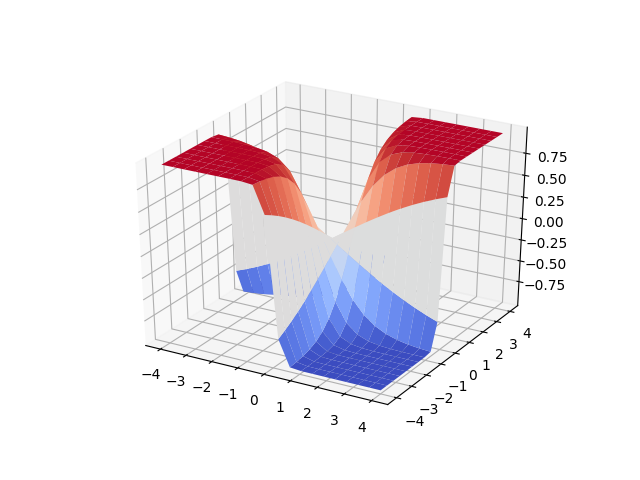
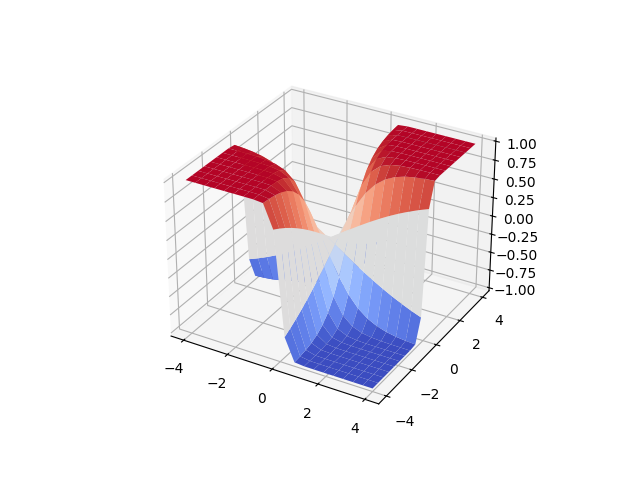
-

diff --git a/func_analysis/func_40_autograd/func_40_autograd.html b/func_analysis/func_40_autograd/func_40_autograd.html
@@ -115,7 +115,7 @@ class="sourceCode python"><code class="sourceCode python"><span id="cb1-1"><a hr
 <span id="cb1-13"><a href="#cb1-13" aria-hidden="true" tabindex="-1"></a>g <span class="op">=</span> grad(objective, <span class="dv">0</span>)</span>
 <span id="cb1-14"><a href="#cb1-14" aria-hidden="true" tabindex="-1"></a>res <span class="op">=</span> g(np.array([x, y, z]))</span>
 <span id="cb1-15"><a href="#cb1-15" aria-hidden="true" tabindex="-1"></a><span class="bu">print</span> (res)</span></code></pre></div>
-<pre><code>[[2. 0. 0.]
+<pre class="text"><code>[[2. 0. 0.]
  [0. 2. 0.]
  [0. 0. 2.]]
 [2. 2. 2.]</code></pre>
@@ -144,7 +144,7 @@ class="sourceCode python"><code class="sourceCode python"><span id="cb3-1"><a hr
 <span id="cb3-8"><a href="#cb3-8" aria-hidden="true" tabindex="-1"></a>xx <span class="op">=</span> np.array([<span class="fl">1.0</span>,<span class="fl">1.0</span>])</span>
 <span id="cb3-9"><a href="#cb3-9" aria-hidden="true" tabindex="-1"></a>h <span class="op">=</span> autograd.hessian(f)</span>
 <span id="cb3-10"><a href="#cb3-10" aria-hidden="true" tabindex="-1"></a><span class="bu">print</span> (h(xx))</span></code></pre></div>
-<pre><code>[[8. 4.]
+<pre class="text"><code>[[8. 4.]
  [4. 8.]]</code></pre>
 <p>Şimdi bazı genel optimizasyon konularını işleyelim.</p>
 <p>Sınırlanmamış optimizasyonda (unconstrained optimization) <span
@@ -278,25 +278,24 @@ class="sourceCode python"><code class="sourceCode python"><span id="cb6-1"><a hr
 <span id="cb6-12"><a href="#cb6-12" aria-hidden="true" tabindex="-1"></a>        x <span class="op">=</span> x <span class="op">-</span> alpha <span class="op">*</span> grad(x)</span>
 <span id="cb6-13"><a href="#cb6-13" aria-hidden="true" tabindex="-1"></a>        xs[step <span class="op">+</span> <span class="dv">1</span>] <span class="op">=</span> x</span>
 <span id="cb6-14"><a href="#cb6-14" aria-hidden="true" tabindex="-1"></a>        </span>
-<span id="cb6-15"><a href="#cb6-15" aria-hidden="true" tabindex="-1"></a><span class="op">!</span>[](func_40_autograd_02.png)</span>
-<span id="cb6-16"><a href="#cb6-16" aria-hidden="true" tabindex="-1"></a>    <span class="cf">return</span> xs</span>
-<span id="cb6-17"><a href="#cb6-17" aria-hidden="true" tabindex="-1"></a></span>
-<span id="cb6-18"><a href="#cb6-18" aria-hidden="true" tabindex="-1"></a>alpha <span class="op">=</span> <span class="fl">0.1</span></span>
-<span id="cb6-19"><a href="#cb6-19" aria-hidden="true" tabindex="-1"></a>x0 <span class="op">=</span> <span class="fl">1.</span></span>
-<span id="cb6-20"><a href="#cb6-20" aria-hidden="true" tabindex="-1"></a></span>
-<span id="cb6-21"><a href="#cb6-21" aria-hidden="true" tabindex="-1"></a>x_opt <span class="op">=</span> grad_desc(x0, fun, alpha <span class="op">=</span> alpha, max_iter <span class="op">=</span> <span class="dv">10</span>)</span>
-<span id="cb6-22"><a href="#cb6-22" aria-hidden="true" tabindex="-1"></a>y_opt <span class="op">=</span> fun(x_opt)</span>
-<span id="cb6-23"><a href="#cb6-23" aria-hidden="true" tabindex="-1"></a></span>
-<span id="cb6-24"><a href="#cb6-24" aria-hidden="true" tabindex="-1"></a>x_true <span class="op">=</span> np.linspace(<span class="op">-</span><span class="fl">1.2</span>, <span class="fl">1.2</span>, <span class="dv">100</span>)</span>
-<span id="cb6-25"><a href="#cb6-25" aria-hidden="true" tabindex="-1"></a>y_true <span class="op">=</span> fun(x_true)</span>
-<span id="cb6-26"><a href="#cb6-26" aria-hidden="true" tabindex="-1"></a></span>
-<span id="cb6-27"><a href="#cb6-27" aria-hidden="true" tabindex="-1"></a>plt.plot(x_true, y_true)</span>
-<span id="cb6-28"><a href="#cb6-28" aria-hidden="true" tabindex="-1"></a>plt.plot(x_opt, y_opt, <span class="st">&#39;o-&#39;</span>, c<span class="op">=</span><span class="st">&#39;red&#39;</span>)</span>
-<span id="cb6-29"><a href="#cb6-29" aria-hidden="true" tabindex="-1"></a></span>
-<span id="cb6-30"><a href="#cb6-30" aria-hidden="true" tabindex="-1"></a><span class="cf">for</span> i, (x, y) <span class="kw">in</span> <span class="bu">enumerate</span>(<span class="bu">zip</span>(x_opt, y_opt), <span class="dv">1</span>):</span>
-<span id="cb6-31"><a href="#cb6-31" aria-hidden="true" tabindex="-1"></a>      plt.text(x <span class="op">-</span> <span class="fl">0.1</span>, y <span class="op">+</span> <span class="fl">0.1</span>, i, fontsize<span class="op">=</span><span class="dv">15</span>)</span>
-<span id="cb6-32"><a href="#cb6-32" aria-hidden="true" tabindex="-1"></a></span>
-<span id="cb6-33"><a href="#cb6-33" aria-hidden="true" tabindex="-1"></a>plt.show()</span></code></pre></div>
+<span id="cb6-15"><a href="#cb6-15" aria-hidden="true" tabindex="-1"></a>    <span class="cf">return</span> xs</span>
+<span id="cb6-16"><a href="#cb6-16" aria-hidden="true" tabindex="-1"></a></span>
+<span id="cb6-17"><a href="#cb6-17" aria-hidden="true" tabindex="-1"></a>alpha <span class="op">=</span> <span class="fl">0.1</span></span>
+<span id="cb6-18"><a href="#cb6-18" aria-hidden="true" tabindex="-1"></a>x0 <span class="op">=</span> <span class="fl">1.</span></span>
+<span id="cb6-19"><a href="#cb6-19" aria-hidden="true" tabindex="-1"></a></span>
+<span id="cb6-20"><a href="#cb6-20" aria-hidden="true" tabindex="-1"></a>x_opt <span class="op">=</span> grad_desc(x0, fun, alpha <span class="op">=</span> alpha, max_iter <span class="op">=</span> <span class="dv">10</span>)</span>
+<span id="cb6-21"><a href="#cb6-21" aria-hidden="true" tabindex="-1"></a>y_opt <span class="op">=</span> fun(x_opt)</span>
+<span id="cb6-22"><a href="#cb6-22" aria-hidden="true" tabindex="-1"></a></span>
+<span id="cb6-23"><a href="#cb6-23" aria-hidden="true" tabindex="-1"></a>x_true <span class="op">=</span> np.linspace(<span class="op">-</span><span class="fl">1.2</span>, <span class="fl">1.2</span>, <span class="dv">100</span>)</span>
+<span id="cb6-24"><a href="#cb6-24" aria-hidden="true" tabindex="-1"></a>y_true <span class="op">=</span> fun(x_true)</span>
+<span id="cb6-25"><a href="#cb6-25" aria-hidden="true" tabindex="-1"></a></span>
+<span id="cb6-26"><a href="#cb6-26" aria-hidden="true" tabindex="-1"></a>plt.plot(x_true, y_true)</span>
+<span id="cb6-27"><a href="#cb6-27" aria-hidden="true" tabindex="-1"></a>plt.plot(x_opt, y_opt, <span class="st">&#39;o-&#39;</span>, c<span class="op">=</span><span class="st">&#39;red&#39;</span>)</span>
+<span id="cb6-28"><a href="#cb6-28" aria-hidden="true" tabindex="-1"></a></span>
+<span id="cb6-29"><a href="#cb6-29" aria-hidden="true" tabindex="-1"></a><span class="cf">for</span> i, (x, y) <span class="kw">in</span> <span class="bu">enumerate</span>(<span class="bu">zip</span>(x_opt, y_opt), <span class="dv">1</span>):</span>
+<span id="cb6-30"><a href="#cb6-30" aria-hidden="true" tabindex="-1"></a>      plt.text(x <span class="op">-</span> <span class="fl">0.1</span>, y <span class="op">+</span> <span class="fl">0.1</span>, i, fontsize<span class="op">=</span><span class="dv">15</span>)</span>
+<span id="cb6-31"><a href="#cb6-31" aria-hidden="true" tabindex="-1"></a></span>
+<span id="cb6-32"><a href="#cb6-32" aria-hidden="true" tabindex="-1"></a>plt.savefig(<span class="st">&quot;func_40_autograd_02.png&quot;</span>)</span></code></pre></div>
 <p><img src="func_40_autograd_02.png" /></p>
 <p>Türevi <code>autograd</code> ile aldık, bu örnekte sembolik türev
 kolaydı, elle <span class="math inline">\(f&#39;(x)=2x\)</span>
@@ -317,22 +316,22 @@ class="sourceCode python"><code class="sourceCode python"><span id="cb7-1"><a hr
 <span id="cb7-4"><a href="#cb7-4" aria-hidden="true" tabindex="-1"></a>    x, y, z <span class="op">=</span> X</span>
 <span id="cb7-5"><a href="#cb7-5" aria-hidden="true" tabindex="-1"></a>    <span class="cf">return</span> x<span class="op">**</span><span class="dv">2</span> <span class="op">+</span> y<span class="op">**</span><span class="dv">2</span> <span class="op">+</span> z<span class="op">**</span><span class="dv">2</span></span>
 <span id="cb7-6"><a href="#cb7-6" aria-hidden="true" tabindex="-1"></a></span>
-<span id="cb7-7"><a href="#cb7-7" aria-hidden="true" tabindex="-1"></a><span class="kw">def</span> cons(X): <span class="co"># kisitlama</span></span>
+<span id="cb7-7"><a href="#cb7-7" aria-hidden="true" tabindex="-1"></a><span class="kw">def</span> cons2(X): <span class="co"># kisitlama</span></span>
 <span id="cb7-8"><a href="#cb7-8" aria-hidden="true" tabindex="-1"></a>    x, y, z <span class="op">=</span> X</span>
 <span id="cb7-9"><a href="#cb7-9" aria-hidden="true" tabindex="-1"></a>    <span class="cf">return</span> <span class="dv">2</span> <span class="op">*</span> x <span class="op">-</span> y <span class="op">+</span> z <span class="op">-</span> <span class="dv">3</span></span>
 <span id="cb7-10"><a href="#cb7-10" aria-hidden="true" tabindex="-1"></a></span>
 <span id="cb7-11"><a href="#cb7-11" aria-hidden="true" tabindex="-1"></a>x0 <span class="op">=</span> [<span class="dv">1</span>, <span class="dv">1</span>, <span class="dv">1</span>]</span>
-<span id="cb7-12"><a href="#cb7-12" aria-hidden="true" tabindex="-1"></a>sol <span class="op">=</span> minimize(objective, x0, constraints<span class="op">=</span>{<span class="st">&#39;type&#39;</span>: <span class="st">&#39;eq&#39;</span>, <span class="st">&#39;fun&#39;</span>: cons})</span>
+<span id="cb7-12"><a href="#cb7-12" aria-hidden="true" tabindex="-1"></a>sol <span class="op">=</span> minimize(objective, x0, constraints<span class="op">=</span>{<span class="st">&#39;type&#39;</span>: <span class="st">&#39;eq&#39;</span>, <span class="st">&#39;fun&#39;</span>: cons2})</span>
 <span id="cb7-13"><a href="#cb7-13" aria-hidden="true" tabindex="-1"></a><span class="bu">print</span> (sol)</span></code></pre></div>
-<pre><code>     fun: 1.5000000035790053
-     jac: array([ 1.99997392, -1.00010441,  0.99994774])
- message: &#39;Optimization terminated successfully.&#39;
-    nfev: 22
-     nit: 4
-    njev: 4
-  status: 0
+<pre class="text"><code> message: Optimization terminated successfully
  success: True
-       x: array([ 0.99998696, -0.50005221,  0.49997386])</code></pre>
+  status: 0
+     fun: 1.5000000035790053
+       x: [ 1.000e+00 -5.001e-01  5.000e-01]
+     nit: 4
+     jac: [ 2.000e+00 -1.000e+00  9.999e-01]
+    nfev: 18
+    njev: 4</code></pre>
 <p>Fonksiyon <code>minimize</code> için kısıtlamalar <code>eq</code> ile
 sıfıra eşit olma üzerinden tanımlanır. Eğer <code>ineq</code>
 kullanılırsa sıfırdan büyük olma tanımlanıyor o zaman mesela <span
@@ -344,16 +343,16 @@ class="sourceCode python"><code class="sourceCode python"><span id="cb9-1"><a hr
 <span id="cb9-2"><a href="#cb9-2" aria-hidden="true" tabindex="-1"></a>      {<span class="st">&#39;type&#39;</span>: <span class="st">&#39;ineq&#39;</span>,<span class="st">&#39;fun&#39;</span>: <span class="kw">lambda</span> xvec: xvec[<span class="dv">1</span>]}) <span class="co"># y&gt;0</span></span>
 <span id="cb9-3"><a href="#cb9-3" aria-hidden="true" tabindex="-1"></a>sol <span class="op">=</span> minimize(objective, x0, method <span class="op">=</span> <span class="st">&#39;SLSQP&#39;</span>, constraints<span class="op">=</span>cons)</span>
 <span id="cb9-4"><a href="#cb9-4" aria-hidden="true" tabindex="-1"></a><span class="bu">print</span> (sol)</span></code></pre></div>
-<p>Not: <code>SLSQP</code> metotu gradyana ihtiyaç duymuyor.</p>
-<pre><code>     fun: 1.1090612774580318e-16
-     jac: array([7.79817877e-12, 1.49011612e-08, 7.79860898e-12])
- message: &#39;Optimization terminated successfully.&#39;
-    nfev: 20
-     nit: 4
-    njev: 4
-  status: 0
+<pre class="text"><code> message: Optimization terminated successfully
  success: True
-       x: array([-7.44668151e-09,  2.73897702e-24, -7.44668129e-09])</code></pre>
+  status: 0
+     fun: 1.1090612774580318e-16
+       x: [-7.447e-09  2.739e-24 -7.447e-09]
+     nit: 4
+     jac: [ 7.798e-12  1.490e-08  7.799e-12]
+    nfev: 16
+    njev: 4</code></pre>
+<p>Not: <code>SLSQP</code> metotu gradyana ihtiyaç duymuyor.</p>
 <p>Bazen her şeyi kendimiz yaparak tüm adımların ne yaptığından emin
 olmak isteyebiliriz. Mesela kısıtlama şartlarını kendimiz bir Lagrange
 çarpanı <span class="math inline">\(f(x) f(x) - \lambda g(x)\)</span>
@@ -367,7 +366,7 @@ class="sourceCode python"><code class="sourceCode python"><span id="cb11-1"><a h
 <span id="cb11-3"><a href="#cb11-3" aria-hidden="true" tabindex="-1"></a></span>
 <span id="cb11-4"><a href="#cb11-4" aria-hidden="true" tabindex="-1"></a><span class="kw">def</span> F(L):</span>
 <span id="cb11-5"><a href="#cb11-5" aria-hidden="true" tabindex="-1"></a>    x, y, z, _lambda <span class="op">=</span> L</span>
-<span id="cb11-6"><a href="#cb11-6" aria-hidden="true" tabindex="-1"></a>    <span class="cf">return</span> objective([x, y, z]) <span class="op">-</span> _lambda <span class="op">*</span> eq([x, y, z])</span>
+<span id="cb11-6"><a href="#cb11-6" aria-hidden="true" tabindex="-1"></a>    <span class="cf">return</span> objective([x, y, z]) <span class="op">-</span> _lambda <span class="op">*</span> cons2([x, y, z])</span>
 <span id="cb11-7"><a href="#cb11-7" aria-hidden="true" tabindex="-1"></a></span>
 <span id="cb11-8"><a href="#cb11-8" aria-hidden="true" tabindex="-1"></a>dfdL <span class="op">=</span> grad(F, <span class="dv">0</span>)</span>
 <span id="cb11-9"><a href="#cb11-9" aria-hidden="true" tabindex="-1"></a></span>
@@ -375,12 +374,12 @@ class="sourceCode python"><code class="sourceCode python"><span id="cb11-1"><a h
 <span id="cb11-11"><a href="#cb11-11" aria-hidden="true" tabindex="-1"></a><span class="kw">def</span> obj(L):</span>
 <span id="cb11-12"><a href="#cb11-12" aria-hidden="true" tabindex="-1"></a>    x, y, z, _lambda <span class="op">=</span> L</span>
 <span id="cb11-13"><a href="#cb11-13" aria-hidden="true" tabindex="-1"></a>    dFdx, dFdy, dFdz, dFdlam <span class="op">=</span> dfdL(L)</span>
-<span id="cb11-14"><a href="#cb11-14" aria-hidden="true" tabindex="-1"></a>    <span class="cf">return</span> [dFdx, dFdy, dFdz, eq([x, y, z])]</span>
+<span id="cb11-14"><a href="#cb11-14" aria-hidden="true" tabindex="-1"></a>    <span class="cf">return</span> [dFdx, dFdy, dFdz, cons2([x, y, z])]</span>
 <span id="cb11-15"><a href="#cb11-15" aria-hidden="true" tabindex="-1"></a></span>
 <span id="cb11-16"><a href="#cb11-16" aria-hidden="true" tabindex="-1"></a><span class="im">from</span> scipy.optimize <span class="im">import</span> fsolve</span>
 <span id="cb11-17"><a href="#cb11-17" aria-hidden="true" tabindex="-1"></a>x, y, z, _lam <span class="op">=</span> fsolve(obj, [<span class="fl">0.0</span>, <span class="fl">0.0</span>, <span class="fl">0.0</span>, <span class="fl">1.0</span>])</span>
 <span id="cb11-18"><a href="#cb11-18" aria-hidden="true" tabindex="-1"></a><span class="bu">print</span> (x,y,z)</span></code></pre></div>
-<pre><code>1.0 -0.5 0.5</code></pre>
+<pre class="text"><code>1.0 -0.5 0.5</code></pre>
 <p>Aynı sonuç bulundu. Şimdi merak ediyoruz, bu sonuç gerçekten minimum
 mu? Üstteki noktada Hessian’ın pozitif kesin olup olmadığını kontrol
 edebiliriz. Hessian’ı da <code>autograd</code> hesaplar! Once
@@ -390,14 +389,14 @@ class="sourceCode python"><code class="sourceCode python"><span id="cb13-1"><a h
 <span id="cb13-2"><a href="#cb13-2" aria-hidden="true" tabindex="-1"></a>h <span class="op">=</span> hessian(objective, <span class="dv">0</span>)</span>
 <span id="cb13-3"><a href="#cb13-3" aria-hidden="true" tabindex="-1"></a>res <span class="op">=</span> h(np.array([x,y,z]))</span>
 <span id="cb13-4"><a href="#cb13-4" aria-hidden="true" tabindex="-1"></a><span class="bu">print</span> (res)</span></code></pre></div>
-<pre><code>[[2. 0. 0.]
+<pre class="text"><code>[[2. 0. 0.]
  [0. 2. 0.]
  [0. 0. 2.]]</code></pre>
 <p>Bu matris pozitif kesin, ama çıplak gözle bariz değilse, tüm
 özdeğerleri pozitif olup olmadığına bakabiliriz,</p>
 <div class="sourceCode" id="cb15"><pre
 class="sourceCode python"><code class="sourceCode python"><span id="cb15-1"><a href="#cb15-1" aria-hidden="true" tabindex="-1"></a><span class="bu">print</span> (np.linalg.eig(h(np.array([x, y, z])))[<span class="dv">0</span>])</span></code></pre></div>
-<pre><code>[2. 2. 2.]</code></pre>
+<pre class="text"><code>[2. 2. 2.]</code></pre>
 <p>Birden Fazla Gradyan Değişkeni</p>
 <p>Diyelim ki elimizde</p>
 <p><span class="math display">\[
@@ -419,10 +418,9 @@ class="sourceCode python"><code class="sourceCode python"><span id="cb17-1"><a h
 <span id="cb17-10"><a href="#cb17-10" aria-hidden="true" tabindex="-1"></a>y <span class="op">=</span> np.linspace(<span class="op">-</span><span class="dv">4</span>,<span class="dv">4</span>,<span class="dv">20</span>)</span>
 <span id="cb17-11"><a href="#cb17-11" aria-hidden="true" tabindex="-1"></a>xx,yy <span class="op">=</span> np.meshgrid(x,y)</span>
 <span id="cb17-12"><a href="#cb17-12" aria-hidden="true" tabindex="-1"></a>zz <span class="op">=</span> g(xx,yy)</span>
-<span id="cb17-13"><a href="#cb17-13" aria-hidden="true" tabindex="-1"></a>fig <span class="op">=</span> plt.figure()</span>
-<span id="cb17-14"><a href="#cb17-14" aria-hidden="true" tabindex="-1"></a>ax <span class="op">=</span> fig.gca(projection<span class="op">=</span><span class="st">&#39;3d&#39;</span>)</span>
-<span id="cb17-15"><a href="#cb17-15" aria-hidden="true" tabindex="-1"></a>surf <span class="op">=</span> ax.plot_surface(xx, yy, zz, cmap<span class="op">=</span>cm.coolwarm)</span>
-<span id="cb17-16"><a href="#cb17-16" aria-hidden="true" tabindex="-1"></a>plt.savefig(<span class="st">&#39;func_40_autograd_03.png&#39;</span>)</span></code></pre></div>
+<span id="cb17-13"><a href="#cb17-13" aria-hidden="true" tabindex="-1"></a>fig, ax <span class="op">=</span> plt.subplots(<span class="dv">1</span>, <span class="dv">1</span>, subplot_kw<span class="op">=</span>{<span class="st">&#39;projection&#39;</span>: <span class="st">&#39;3d&#39;</span>})</span>
+<span id="cb17-14"><a href="#cb17-14" aria-hidden="true" tabindex="-1"></a>surf <span class="op">=</span> ax.plot_surface(xx, yy, zz, cmap<span class="op">=</span>cm.coolwarm)</span>
+<span id="cb17-15"><a href="#cb17-15" aria-hidden="true" tabindex="-1"></a>plt.savefig(<span class="st">&#39;func_40_autograd_03.png&#39;</span>)</span></code></pre></div>
 <p><img src="func_40_autograd_03.png" /></p>
 <p><span class="math inline">\(g\)</span>’nin her iki kısmi türevini ve
 gradyanını,</p>
@@ -444,7 +442,7 @@ class="math inline">\(w_2\)</span> değişkenlerine tekabül ediyorlar
 <div class="sourceCode" id="cb19"><pre
 class="sourceCode python"><code class="sourceCode python"><span id="cb19-1"><a href="#cb19-1" aria-hidden="true" tabindex="-1"></a>gradg <span class="op">=</span> [dgdw1(<span class="fl">1.0</span>,<span class="fl">2.0</span>), dgdw2(<span class="fl">1.0</span>,<span class="fl">2.0</span>)]</span>
 <span id="cb19-2"><a href="#cb19-2" aria-hidden="true" tabindex="-1"></a><span class="bu">print</span> (gradg)</span></code></pre></div>
-<pre><code>[0.14130164970632894, 0.07065082485316447]</code></pre>
+<pre class="text"><code>[np.float64(0.14130164970632894), np.float64(0.07065082485316447)]</code></pre>
 <p>Tabii çok boyutlu ortamda yazının başındaki teknikleri kullanmak daha
 iyi, üstteki bir seçenek.</p>
 <p>Kaynaklar</p>

diff --git a/func_analysis/func_40_autograd/genel_optimizasyon_paketler_autograd.html b/func_analysis/func_40_autograd/genel_optimizasyon_paketler_autograd.html
@@ -115,7 +115,7 @@ class="sourceCode python"><code class="sourceCode python"><span id="cb1-1"><a hr
 <span id="cb1-13"><a href="#cb1-13" aria-hidden="true" tabindex="-1"></a>g <span class="op">=</span> grad(objective, <span class="dv">0</span>)</span>
 <span id="cb1-14"><a href="#cb1-14" aria-hidden="true" tabindex="-1"></a>res <span class="op">=</span> g(np.array([x, y, z]))</span>
 <span id="cb1-15"><a href="#cb1-15" aria-hidden="true" tabindex="-1"></a><span class="bu">print</span> (res)</span></code></pre></div>
-<pre><code>[[2. 0. 0.]
+<pre class="text"><code>[[2. 0. 0.]
  [0. 2. 0.]
  [0. 0. 2.]]
 [2. 2. 2.]</code></pre>
@@ -144,7 +144,7 @@ class="sourceCode python"><code class="sourceCode python"><span id="cb3-1"><a hr
 <span id="cb3-8"><a href="#cb3-8" aria-hidden="true" tabindex="-1"></a>xx <span class="op">=</span> np.array([<span class="fl">1.0</span>,<span class="fl">1.0</span>])</span>
 <span id="cb3-9"><a href="#cb3-9" aria-hidden="true" tabindex="-1"></a>h <span class="op">=</span> autograd.hessian(f)</span>
 <span id="cb3-10"><a href="#cb3-10" aria-hidden="true" tabindex="-1"></a><span class="bu">print</span> (h(xx))</span></code></pre></div>
-<pre><code>[[8. 4.]
+<pre class="text"><code>[[8. 4.]
  [4. 8.]]</code></pre>
 <p>Şimdi bazı genel optimizasyon konularını işleyelim.</p>
 <p>Sınırlanmamış optimizasyonda (unconstrained optimization) <span
@@ -278,25 +278,24 @@ class="sourceCode python"><code class="sourceCode python"><span id="cb6-1"><a hr
 <span id="cb6-12"><a href="#cb6-12" aria-hidden="true" tabindex="-1"></a>        x <span class="op">=</span> x <span class="op">-</span> alpha <span class="op">*</span> grad(x)</span>
 <span id="cb6-13"><a href="#cb6-13" aria-hidden="true" tabindex="-1"></a>        xs[step <span class="op">+</span> <span class="dv">1</span>] <span class="op">=</span> x</span>
 <span id="cb6-14"><a href="#cb6-14" aria-hidden="true" tabindex="-1"></a>        </span>
-<span id="cb6-15"><a href="#cb6-15" aria-hidden="true" tabindex="-1"></a><span class="op">!</span>[](func_40_autograd_02.png)</span>
-<span id="cb6-16"><a href="#cb6-16" aria-hidden="true" tabindex="-1"></a>    <span class="cf">return</span> xs</span>
-<span id="cb6-17"><a href="#cb6-17" aria-hidden="true" tabindex="-1"></a></span>
-<span id="cb6-18"><a href="#cb6-18" aria-hidden="true" tabindex="-1"></a>alpha <span class="op">=</span> <span class="fl">0.1</span></span>
-<span id="cb6-19"><a href="#cb6-19" aria-hidden="true" tabindex="-1"></a>x0 <span class="op">=</span> <span class="fl">1.</span></span>
-<span id="cb6-20"><a href="#cb6-20" aria-hidden="true" tabindex="-1"></a></span>
-<span id="cb6-21"><a href="#cb6-21" aria-hidden="true" tabindex="-1"></a>x_opt <span class="op">=</span> grad_desc(x0, fun, alpha <span class="op">=</span> alpha, max_iter <span class="op">=</span> <span class="dv">10</span>)</span>
-<span id="cb6-22"><a href="#cb6-22" aria-hidden="true" tabindex="-1"></a>y_opt <span class="op">=</span> fun(x_opt)</span>
-<span id="cb6-23"><a href="#cb6-23" aria-hidden="true" tabindex="-1"></a></span>
-<span id="cb6-24"><a href="#cb6-24" aria-hidden="true" tabindex="-1"></a>x_true <span class="op">=</span> np.linspace(<span class="op">-</span><span class="fl">1.2</span>, <span class="fl">1.2</span>, <span class="dv">100</span>)</span>
-<span id="cb6-25"><a href="#cb6-25" aria-hidden="true" tabindex="-1"></a>y_true <span class="op">=</span> fun(x_true)</span>
-<span id="cb6-26"><a href="#cb6-26" aria-hidden="true" tabindex="-1"></a></span>
-<span id="cb6-27"><a href="#cb6-27" aria-hidden="true" tabindex="-1"></a>plt.plot(x_true, y_true)</span>
-<span id="cb6-28"><a href="#cb6-28" aria-hidden="true" tabindex="-1"></a>plt.plot(x_opt, y_opt, <span class="st">&#39;o-&#39;</span>, c<span class="op">=</span><span class="st">&#39;red&#39;</span>)</span>
-<span id="cb6-29"><a href="#cb6-29" aria-hidden="true" tabindex="-1"></a></span>
-<span id="cb6-30"><a href="#cb6-30" aria-hidden="true" tabindex="-1"></a><span class="cf">for</span> i, (x, y) <span class="kw">in</span> <span class="bu">enumerate</span>(<span class="bu">zip</span>(x_opt, y_opt), <span class="dv">1</span>):</span>
-<span id="cb6-31"><a href="#cb6-31" aria-hidden="true" tabindex="-1"></a>      plt.text(x <span class="op">-</span> <span class="fl">0.1</span>, y <span class="op">+</span> <span class="fl">0.1</span>, i, fontsize<span class="op">=</span><span class="dv">15</span>)</span>
-<span id="cb6-32"><a href="#cb6-32" aria-hidden="true" tabindex="-1"></a></span>
-<span id="cb6-33"><a href="#cb6-33" aria-hidden="true" tabindex="-1"></a>plt.show()</span></code></pre></div>
+<span id="cb6-15"><a href="#cb6-15" aria-hidden="true" tabindex="-1"></a>    <span class="cf">return</span> xs</span>
+<span id="cb6-16"><a href="#cb6-16" aria-hidden="true" tabindex="-1"></a></span>
+<span id="cb6-17"><a href="#cb6-17" aria-hidden="true" tabindex="-1"></a>alpha <span class="op">=</span> <span class="fl">0.1</span></span>
+<span id="cb6-18"><a href="#cb6-18" aria-hidden="true" tabindex="-1"></a>x0 <span class="op">=</span> <span class="fl">1.</span></span>
+<span id="cb6-19"><a href="#cb6-19" aria-hidden="true" tabindex="-1"></a></span>
+<span id="cb6-20"><a href="#cb6-20" aria-hidden="true" tabindex="-1"></a>x_opt <span class="op">=</span> grad_desc(x0, fun, alpha <span class="op">=</span> alpha, max_iter <span class="op">=</span> <span class="dv">10</span>)</span>
+<span id="cb6-21"><a href="#cb6-21" aria-hidden="true" tabindex="-1"></a>y_opt <span class="op">=</span> fun(x_opt)</span>
+<span id="cb6-22"><a href="#cb6-22" aria-hidden="true" tabindex="-1"></a></span>
+<span id="cb6-23"><a href="#cb6-23" aria-hidden="true" tabindex="-1"></a>x_true <span class="op">=</span> np.linspace(<span class="op">-</span><span class="fl">1.2</span>, <span class="fl">1.2</span>, <span class="dv">100</span>)</span>
+<span id="cb6-24"><a href="#cb6-24" aria-hidden="true" tabindex="-1"></a>y_true <span class="op">=</span> fun(x_true)</span>
+<span id="cb6-25"><a href="#cb6-25" aria-hidden="true" tabindex="-1"></a></span>
+<span id="cb6-26"><a href="#cb6-26" aria-hidden="true" tabindex="-1"></a>plt.plot(x_true, y_true)</span>
+<span id="cb6-27"><a href="#cb6-27" aria-hidden="true" tabindex="-1"></a>plt.plot(x_opt, y_opt, <span class="st">&#39;o-&#39;</span>, c<span class="op">=</span><span class="st">&#39;red&#39;</span>)</span>
+<span id="cb6-28"><a href="#cb6-28" aria-hidden="true" tabindex="-1"></a></span>
+<span id="cb6-29"><a href="#cb6-29" aria-hidden="true" tabindex="-1"></a><span class="cf">for</span> i, (x, y) <span class="kw">in</span> <span class="bu">enumerate</span>(<span class="bu">zip</span>(x_opt, y_opt), <span class="dv">1</span>):</span>
+<span id="cb6-30"><a href="#cb6-30" aria-hidden="true" tabindex="-1"></a>      plt.text(x <span class="op">-</span> <span class="fl">0.1</span>, y <span class="op">+</span> <span class="fl">0.1</span>, i, fontsize<span class="op">=</span><span class="dv">15</span>)</span>
+<span id="cb6-31"><a href="#cb6-31" aria-hidden="true" tabindex="-1"></a></span>
+<span id="cb6-32"><a href="#cb6-32" aria-hidden="true" tabindex="-1"></a>plt.savefig(<span class="st">&quot;func_40_autograd_02.png&quot;</span>)</span></code></pre></div>
 <p><img src="func_40_autograd_02.png" /></p>
 <p>Türevi <code>autograd</code> ile aldık, bu örnekte sembolik türev
 kolaydı, elle <span class="math inline">\(f&#39;(x)=2x\)</span>
@@ -317,22 +316,22 @@ class="sourceCode python"><code class="sourceCode python"><span id="cb7-1"><a hr
 <span id="cb7-4"><a href="#cb7-4" aria-hidden="true" tabindex="-1"></a>    x, y, z <span class="op">=</span> X</span>
 <span id="cb7-5"><a href="#cb7-5" aria-hidden="true" tabindex="-1"></a>    <span class="cf">return</span> x<span class="op">**</span><span class="dv">2</span> <span class="op">+</span> y<span class="op">**</span><span class="dv">2</span> <span class="op">+</span> z<span class="op">**</span><span class="dv">2</span></span>
 <span id="cb7-6"><a href="#cb7-6" aria-hidden="true" tabindex="-1"></a></span>
-<span id="cb7-7"><a href="#cb7-7" aria-hidden="true" tabindex="-1"></a><span class="kw">def</span> cons(X): <span class="co"># kisitlama</span></span>
+<span id="cb7-7"><a href="#cb7-7" aria-hidden="true" tabindex="-1"></a><span class="kw">def</span> cons2(X): <span class="co"># kisitlama</span></span>
 <span id="cb7-8"><a href="#cb7-8" aria-hidden="true" tabindex="-1"></a>    x, y, z <span class="op">=</span> X</span>
 <span id="cb7-9"><a href="#cb7-9" aria-hidden="true" tabindex="-1"></a>    <span class="cf">return</span> <span class="dv">2</span> <span class="op">*</span> x <span class="op">-</span> y <span class="op">+</span> z <span class="op">-</span> <span class="dv">3</span></span>
 <span id="cb7-10"><a href="#cb7-10" aria-hidden="true" tabindex="-1"></a></span>
 <span id="cb7-11"><a href="#cb7-11" aria-hidden="true" tabindex="-1"></a>x0 <span class="op">=</span> [<span class="dv">1</span>, <span class="dv">1</span>, <span class="dv">1</span>]</span>
-<span id="cb7-12"><a href="#cb7-12" aria-hidden="true" tabindex="-1"></a>sol <span class="op">=</span> minimize(objective, x0, constraints<span class="op">=</span>{<span class="st">&#39;type&#39;</span>: <span class="st">&#39;eq&#39;</span>, <span class="st">&#39;fun&#39;</span>: cons})</span>
+<span id="cb7-12"><a href="#cb7-12" aria-hidden="true" tabindex="-1"></a>sol <span class="op">=</span> minimize(objective, x0, constraints<span class="op">=</span>{<span class="st">&#39;type&#39;</span>: <span class="st">&#39;eq&#39;</span>, <span class="st">&#39;fun&#39;</span>: cons2})</span>
 <span id="cb7-13"><a href="#cb7-13" aria-hidden="true" tabindex="-1"></a><span class="bu">print</span> (sol)</span></code></pre></div>
-<pre><code>     fun: 1.5000000035790053
-     jac: array([ 1.99997392, -1.00010441,  0.99994774])
- message: &#39;Optimization terminated successfully.&#39;
-    nfev: 22
-     nit: 4
-    njev: 4
-  status: 0
+<pre class="text"><code> message: Optimization terminated successfully
  success: True
-       x: array([ 0.99998696, -0.50005221,  0.49997386])</code></pre>
+  status: 0
+     fun: 1.5000000035790053
+       x: [ 1.000e+00 -5.001e-01  5.000e-01]
+     nit: 4
+     jac: [ 2.000e+00 -1.000e+00  9.999e-01]
+    nfev: 18
+    njev: 4</code></pre>
 <p>Fonksiyon <code>minimize</code> için kısıtlamalar <code>eq</code> ile
 sıfıra eşit olma üzerinden tanımlanır. Eğer <code>ineq</code>
 kullanılırsa sıfırdan büyük olma tanımlanıyor o zaman mesela <span
@@ -344,16 +343,16 @@ class="sourceCode python"><code class="sourceCode python"><span id="cb9-1"><a hr
 <span id="cb9-2"><a href="#cb9-2" aria-hidden="true" tabindex="-1"></a>      {<span class="st">&#39;type&#39;</span>: <span class="st">&#39;ineq&#39;</span>,<span class="st">&#39;fun&#39;</span>: <span class="kw">lambda</span> xvec: xvec[<span class="dv">1</span>]}) <span class="co"># y&gt;0</span></span>
 <span id="cb9-3"><a href="#cb9-3" aria-hidden="true" tabindex="-1"></a>sol <span class="op">=</span> minimize(objective, x0, method <span class="op">=</span> <span class="st">&#39;SLSQP&#39;</span>, constraints<span class="op">=</span>cons)</span>
 <span id="cb9-4"><a href="#cb9-4" aria-hidden="true" tabindex="-1"></a><span class="bu">print</span> (sol)</span></code></pre></div>
-<p>Not: <code>SLSQP</code> metotu gradyana ihtiyaç duymuyor.</p>
-<pre><code>     fun: 1.1090612774580318e-16
-     jac: array([7.79817877e-12, 1.49011612e-08, 7.79860898e-12])
- message: &#39;Optimization terminated successfully.&#39;
-    nfev: 20
-     nit: 4
-    njev: 4
-  status: 0
+<pre class="text"><code> message: Optimization terminated successfully
  success: True
-       x: array([-7.44668151e-09,  2.73897702e-24, -7.44668129e-09])</code></pre>
+  status: 0
+     fun: 1.1090612774580318e-16
+       x: [-7.447e-09  2.739e-24 -7.447e-09]
+     nit: 4
+     jac: [ 7.798e-12  1.490e-08  7.799e-12]
+    nfev: 16
+    njev: 4</code></pre>
+<p>Not: <code>SLSQP</code> metotu gradyana ihtiyaç duymuyor.</p>
 <p>Bazen her şeyi kendimiz yaparak tüm adımların ne yaptığından emin
 olmak isteyebiliriz. Mesela kısıtlama şartlarını kendimiz bir Lagrange
 çarpanı <span class="math inline">\(f(x) f(x) - \lambda g(x)\)</span>
@@ -367,7 +366,7 @@ class="sourceCode python"><code class="sourceCode python"><span id="cb11-1"><a h
 <span id="cb11-3"><a href="#cb11-3" aria-hidden="true" tabindex="-1"></a></span>
 <span id="cb11-4"><a href="#cb11-4" aria-hidden="true" tabindex="-1"></a><span class="kw">def</span> F(L):</span>
 <span id="cb11-5"><a href="#cb11-5" aria-hidden="true" tabindex="-1"></a>    x, y, z, _lambda <span class="op">=</span> L</span>
-<span id="cb11-6"><a href="#cb11-6" aria-hidden="true" tabindex="-1"></a>    <span class="cf">return</span> objective([x, y, z]) <span class="op">-</span> _lambda <span class="op">*</span> eq([x, y, z])</span>
+<span id="cb11-6"><a href="#cb11-6" aria-hidden="true" tabindex="-1"></a>    <span class="cf">return</span> objective([x, y, z]) <span class="op">-</span> _lambda <span class="op">*</span> cons2([x, y, z])</span>
 <span id="cb11-7"><a href="#cb11-7" aria-hidden="true" tabindex="-1"></a></span>
 <span id="cb11-8"><a href="#cb11-8" aria-hidden="true" tabindex="-1"></a>dfdL <span class="op">=</span> grad(F, <span class="dv">0</span>)</span>
 <span id="cb11-9"><a href="#cb11-9" aria-hidden="true" tabindex="-1"></a></span>
@@ -375,12 +374,12 @@ class="sourceCode python"><code class="sourceCode python"><span id="cb11-1"><a h
 <span id="cb11-11"><a href="#cb11-11" aria-hidden="true" tabindex="-1"></a><span class="kw">def</span> obj(L):</span>
 <span id="cb11-12"><a href="#cb11-12" aria-hidden="true" tabindex="-1"></a>    x, y, z, _lambda <span class="op">=</span> L</span>
 <span id="cb11-13"><a href="#cb11-13" aria-hidden="true" tabindex="-1"></a>    dFdx, dFdy, dFdz, dFdlam <span class="op">=</span> dfdL(L)</span>
-<span id="cb11-14"><a href="#cb11-14" aria-hidden="true" tabindex="-1"></a>    <span class="cf">return</span> [dFdx, dFdy, dFdz, eq([x, y, z])]</span>
+<span id="cb11-14"><a href="#cb11-14" aria-hidden="true" tabindex="-1"></a>    <span class="cf">return</span> [dFdx, dFdy, dFdz, cons2([x, y, z])]</span>
 <span id="cb11-15"><a href="#cb11-15" aria-hidden="true" tabindex="-1"></a></span>
 <span id="cb11-16"><a href="#cb11-16" aria-hidden="true" tabindex="-1"></a><span class="im">from</span> scipy.optimize <span class="im">import</span> fsolve</span>
 <span id="cb11-17"><a href="#cb11-17" aria-hidden="true" tabindex="-1"></a>x, y, z, _lam <span class="op">=</span> fsolve(obj, [<span class="fl">0.0</span>, <span class="fl">0.0</span>, <span class="fl">0.0</span>, <span class="fl">1.0</span>])</span>
 <span id="cb11-18"><a href="#cb11-18" aria-hidden="true" tabindex="-1"></a><span class="bu">print</span> (x,y,z)</span></code></pre></div>
-<pre><code>1.0 -0.5 0.5</code></pre>
+<pre class="text"><code>1.0 -0.5 0.5</code></pre>
 <p>Aynı sonuç bulundu. Şimdi merak ediyoruz, bu sonuç gerçekten minimum
 mu? Üstteki noktada Hessian’ın pozitif kesin olup olmadığını kontrol
 edebiliriz. Hessian’ı da <code>autograd</code> hesaplar! Once
@@ -390,14 +389,14 @@ class="sourceCode python"><code class="sourceCode python"><span id="cb13-1"><a h
 <span id="cb13-2"><a href="#cb13-2" aria-hidden="true" tabindex="-1"></a>h <span class="op">=</span> hessian(objective, <span class="dv">0</span>)</span>
 <span id="cb13-3"><a href="#cb13-3" aria-hidden="true" tabindex="-1"></a>res <span class="op">=</span> h(np.array([x,y,z]))</span>
 <span id="cb13-4"><a href="#cb13-4" aria-hidden="true" tabindex="-1"></a><span class="bu">print</span> (res)</span></code></pre></div>
-<pre><code>[[2. 0. 0.]
+<pre class="text"><code>[[2. 0. 0.]
  [0. 2. 0.]
  [0. 0. 2.]]</code></pre>
 <p>Bu matris pozitif kesin, ama çıplak gözle bariz değilse, tüm
 özdeğerleri pozitif olup olmadığına bakabiliriz,</p>
 <div class="sourceCode" id="cb15"><pre
 class="sourceCode python"><code class="sourceCode python"><span id="cb15-1"><a href="#cb15-1" aria-hidden="true" tabindex="-1"></a><span class="bu">print</span> (np.linalg.eig(h(np.array([x, y, z])))[<span class="dv">0</span>])</span></code></pre></div>
-<pre><code>[2. 2. 2.]</code></pre>
+<pre class="text"><code>[2. 2. 2.]</code></pre>
 <p>Birden Fazla Gradyan Değişkeni</p>
 <p>Diyelim ki elimizde</p>
 <p><span class="math display">\[
@@ -419,10 +418,9 @@ class="sourceCode python"><code class="sourceCode python"><span id="cb17-1"><a h
 <span id="cb17-10"><a href="#cb17-10" aria-hidden="true" tabindex="-1"></a>y <span class="op">=</span> np.linspace(<span class="op">-</span><span class="dv">4</span>,<span class="dv">4</span>,<span class="dv">20</span>)</span>
 <span id="cb17-11"><a href="#cb17-11" aria-hidden="true" tabindex="-1"></a>xx,yy <span class="op">=</span> np.meshgrid(x,y)</span>
 <span id="cb17-12"><a href="#cb17-12" aria-hidden="true" tabindex="-1"></a>zz <span class="op">=</span> g(xx,yy)</span>
-<span id="cb17-13"><a href="#cb17-13" aria-hidden="true" tabindex="-1"></a>fig <span class="op">=</span> plt.figure()</span>
-<span id="cb17-14"><a href="#cb17-14" aria-hidden="true" tabindex="-1"></a>ax <span class="op">=</span> fig.gca(projection<span class="op">=</span><span class="st">&#39;3d&#39;</span>)</span>
-<span id="cb17-15"><a href="#cb17-15" aria-hidden="true" tabindex="-1"></a>surf <span class="op">=</span> ax.plot_surface(xx, yy, zz, cmap<span class="op">=</span>cm.coolwarm)</span>
-<span id="cb17-16"><a href="#cb17-16" aria-hidden="true" tabindex="-1"></a>plt.savefig(<span class="st">&#39;func_40_autograd_03.png&#39;</span>)</span></code></pre></div>
+<span id="cb17-13"><a href="#cb17-13" aria-hidden="true" tabindex="-1"></a>fig, ax <span class="op">=</span> plt.subplots(<span class="dv">1</span>, <span class="dv">1</span>, subplot_kw<span class="op">=</span>{<span class="st">&#39;projection&#39;</span>: <span class="st">&#39;3d&#39;</span>})</span>
+<span id="cb17-14"><a href="#cb17-14" aria-hidden="true" tabindex="-1"></a>surf <span class="op">=</span> ax.plot_surface(xx, yy, zz, cmap<span class="op">=</span>cm.coolwarm)</span>
+<span id="cb17-15"><a href="#cb17-15" aria-hidden="true" tabindex="-1"></a>plt.savefig(<span class="st">&#39;func_40_autograd_03.png&#39;</span>)</span></code></pre></div>
 <p><img src="func_40_autograd_03.png" /></p>
 <p><span class="math inline">\(g\)</span>’nin her iki kısmi türevini ve
 gradyanını,</p>
@@ -444,7 +442,7 @@ class="math inline">\(w_2\)</span> değişkenlerine tekabül ediyorlar
 <div class="sourceCode" id="cb19"><pre
 class="sourceCode python"><code class="sourceCode python"><span id="cb19-1"><a href="#cb19-1" aria-hidden="true" tabindex="-1"></a>gradg <span class="op">=</span> [dgdw1(<span class="fl">1.0</span>,<span class="fl">2.0</span>), dgdw2(<span class="fl">1.0</span>,<span class="fl">2.0</span>)]</span>
 <span id="cb19-2"><a href="#cb19-2" aria-hidden="true" tabindex="-1"></a><span class="bu">print</span> (gradg)</span></code></pre></div>
-<pre><code>[0.14130164970632894, 0.07065082485316447]</code></pre>
+<pre class="text"><code>[np.float64(0.14130164970632894), np.float64(0.07065082485316447)]</code></pre>
 <p>Tabii çok boyutlu ortamda yazının başındaki teknikleri kullanmak daha
 iyi, üstteki bir seçenek.</p>
 <p>Kaynaklar</p>
